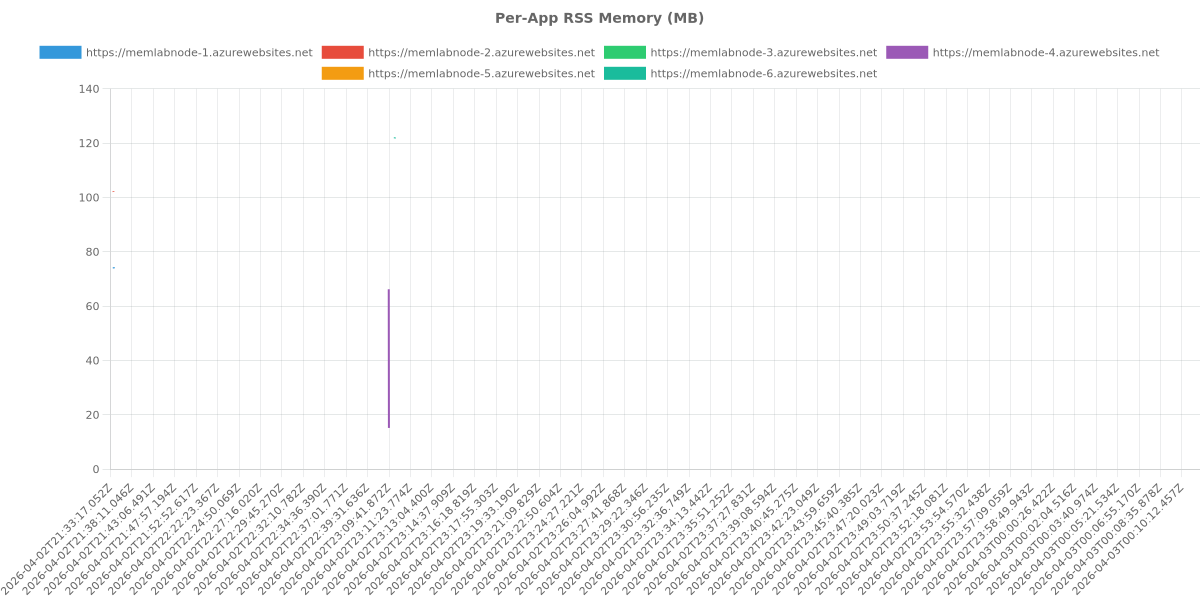
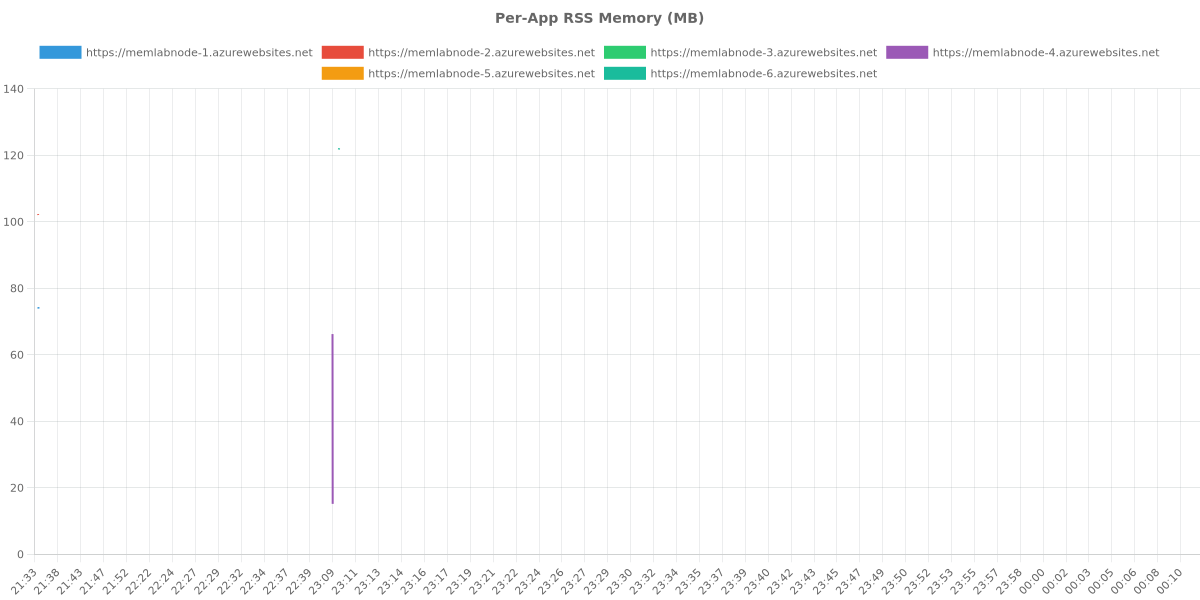
Add traffic RPM vs CPU chart and apply time-only labels to all charts
- Add timeOnly() helper to strip dates from chart X-axis labels (HH:MM only)
- Add generateTrafficCpuTimeline() for dual-axis bar+line chart (RPM vs CPU%)
- Regenerate all charts for both zip-deploy and container-deploy experiments
- Update experiment-log.md and experiment-log.ko.md with new Figure 7/12 references
- Oracle-recommended design: 1-min bins aligned with Azure metrics, burst excluded

diff --git a/docs/experiment-log.md b/docs/experiment-log.md
@@ -89,6 +89,9 @@ Deployed 2 Node.js applications (50MB RSS each). Verified that the `/diag/proc` 
 ![Burst Latency Distribution](assets/charts/zip-deploy/burst-latency-distribution.png)
 *Figure 6: Burst traffic latency histogram.*
 
+![Traffic Volume vs CPU](assets/charts/zip-deploy/traffic-cpu-timeline.png)
+*Figure 7: Steady-state traffic volume (RPM) overlaid with CPU%. Traffic remained flat at ~6 RPM (1 req/10s × 6 apps) throughout all phases, while CPU rose from 15% to 35%+ during memory pressure — confirming the CPU increase was not driven by traffic.*
+
 ---
 
 ## Container Deploy Experiment
@@ -133,16 +136,19 @@ An attempt to run 6 containers at 100MB each caused complete plan destabilizatio
 ### Visualizations (Container Deploy)
 
 ![CPU and Memory Timeline](assets/charts/container-deploy/cpu-memory-timeline.png)
-*Figure 7: CPU and Memory trends for containerized applications.*
+*Figure 8: CPU and Memory trends for containerized applications.*
 
 ![Kernel Reclaim Activity](assets/charts/container-deploy/kernel-reclaim-timeline.png)
-*Figure 8: Reclaim activity in the container environment.*
+*Figure 9: Reclaim activity in the container environment.*
 
 ![Swap Activity](assets/charts/container-deploy/swap-activity-timeline.png)
-*Figure 9: Swap activity during container experiments.*
+*Figure 10: Swap activity during container experiments.*
 
 ![Burst Latency Distribution](assets/charts/container-deploy/burst-latency-distribution.png)
-*Figure 10: High latency variance observed during container traffic bursts.*
+*Figure 11: High latency variance observed during container traffic bursts.*
+
+![Traffic Volume vs CPU](assets/charts/container-deploy/traffic-cpu-timeline.png)
+*Figure 12: Steady-state traffic volume (RPM) vs CPU% for containerized deployment. Traffic remained consistently low while CPU fluctuated with memory pressure phases.*
 
 ---
 
